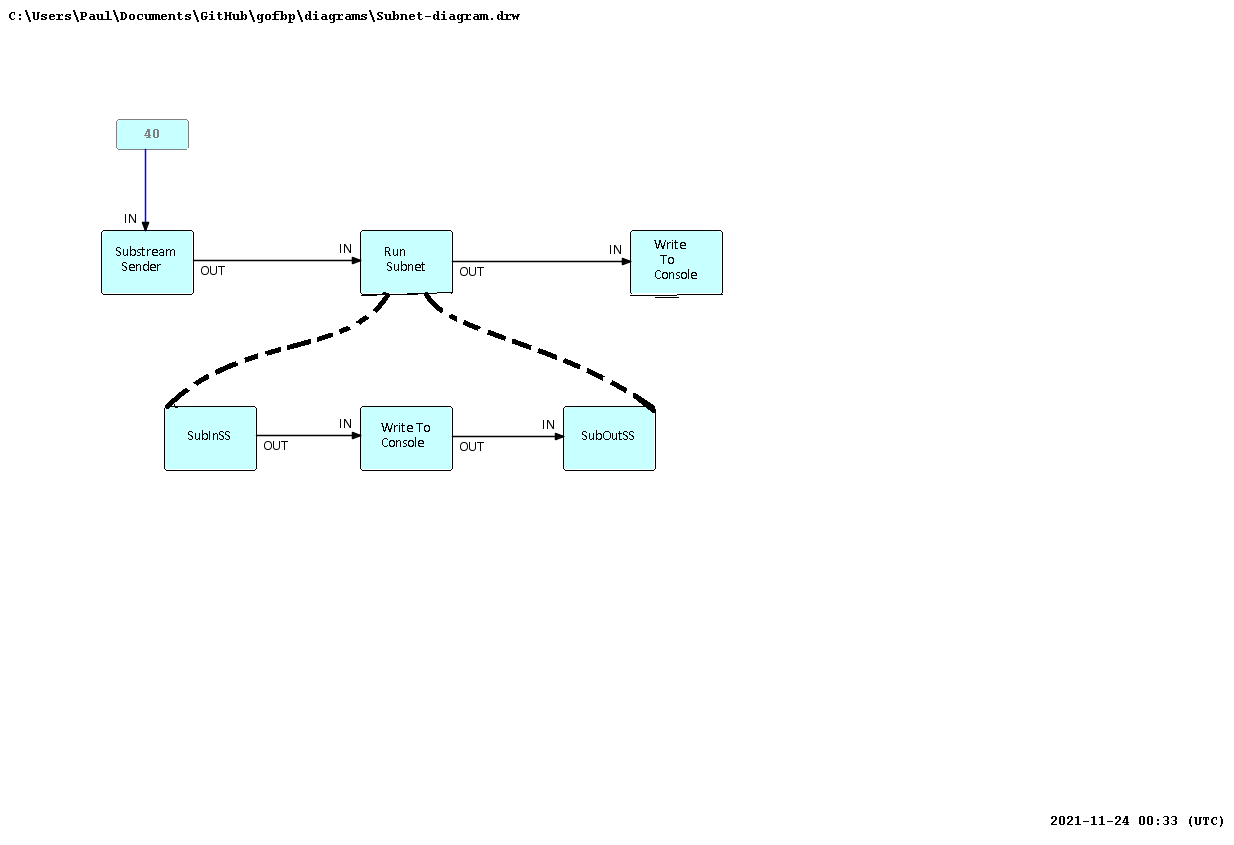
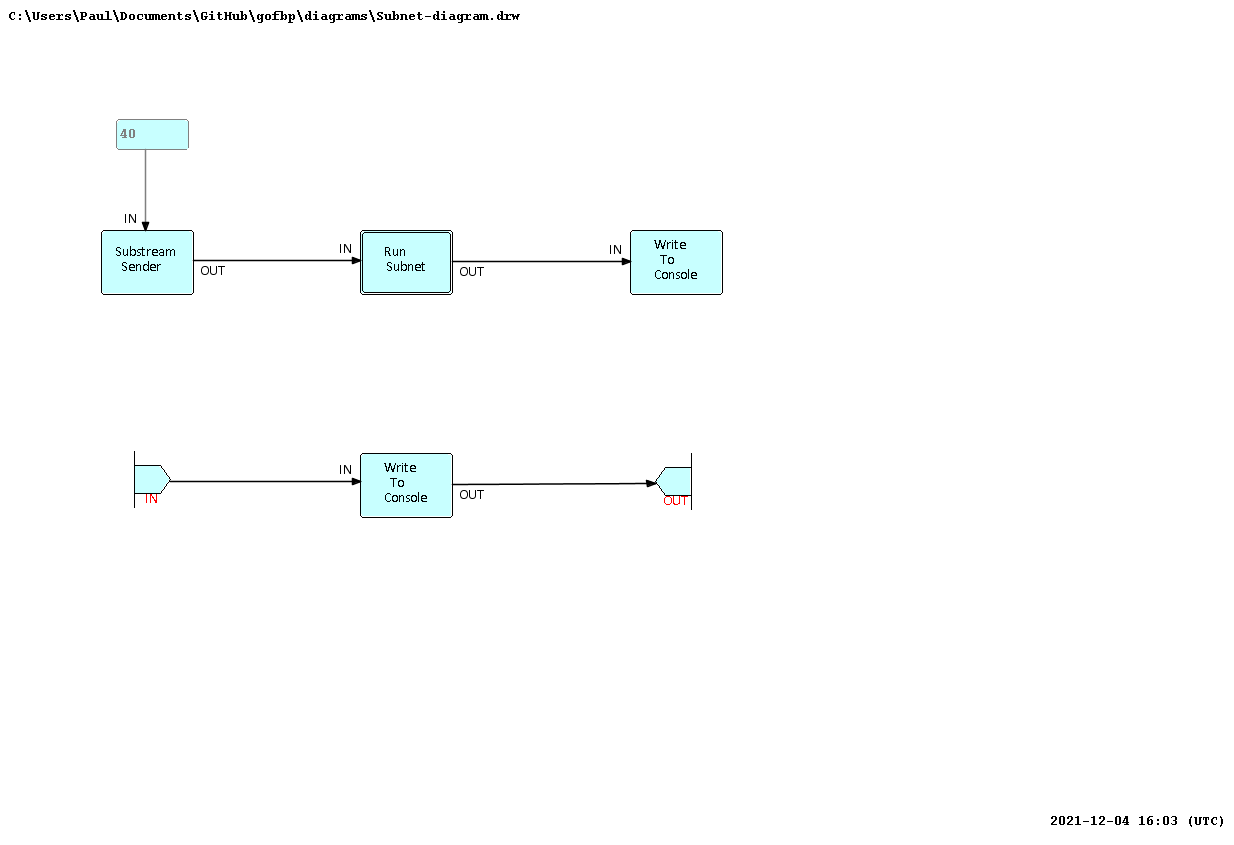
Added some diagrams; fixed package in testloadbal_test.go

diff --git a/testloadbal_test.go b/testloadbal_test.go
@@ -10,7 +10,7 @@ import (
 func TestLoadBal(t *testing.T) {
 	net := core.NewNetwork("TestLoadBal")
 
-	proc1 := net.NewProc("Sender", &testrtn.Sender{})
+	sender := net.NewProc("Sender", &testrtn.Sender{})
 
 	proc2 := net.NewProc("LoadBalance", &testrtn.LoadBalance{})
 
@@ -18,8 +18,8 @@ func TestLoadBal(t *testing.T) {
 	proc3b := net.NewProc("Receiver1", &testrtn.DelayedReceiver{})
 	proc3c := net.NewProc("Receiver2", &testrtn.DelayedReceiver{})
 
-	net.Initialize("40", proc1, "COUNT")
-	net.Connect(proc1, "OUT", proc2, "IN", 6)
+	net.Initialize("40", sender, "COUNT")
+	net.Connect(sender, "OUT", proc2, "IN", 6)
 	net.Connect(proc2, "OUT[0]", proc3a, "IN", 6)
 	net.Connect(proc2, "OUT[1]", proc3b, "IN", 6)
 	net.Connect(proc2, "OUT[2]", proc3c, "IN", 6)
